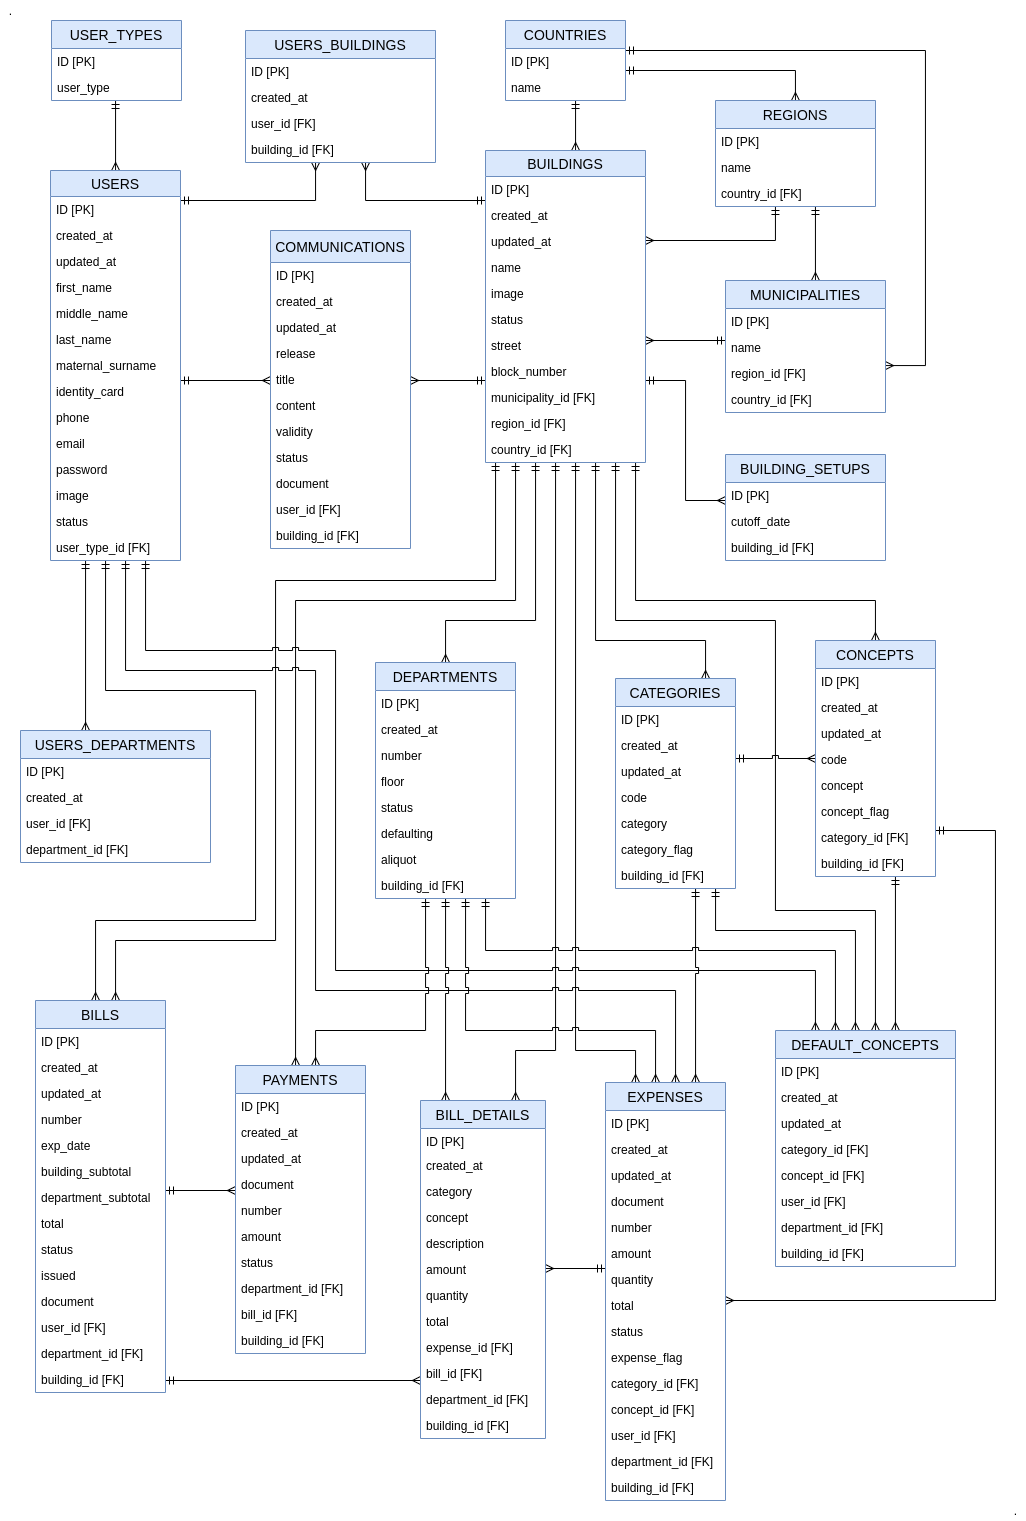
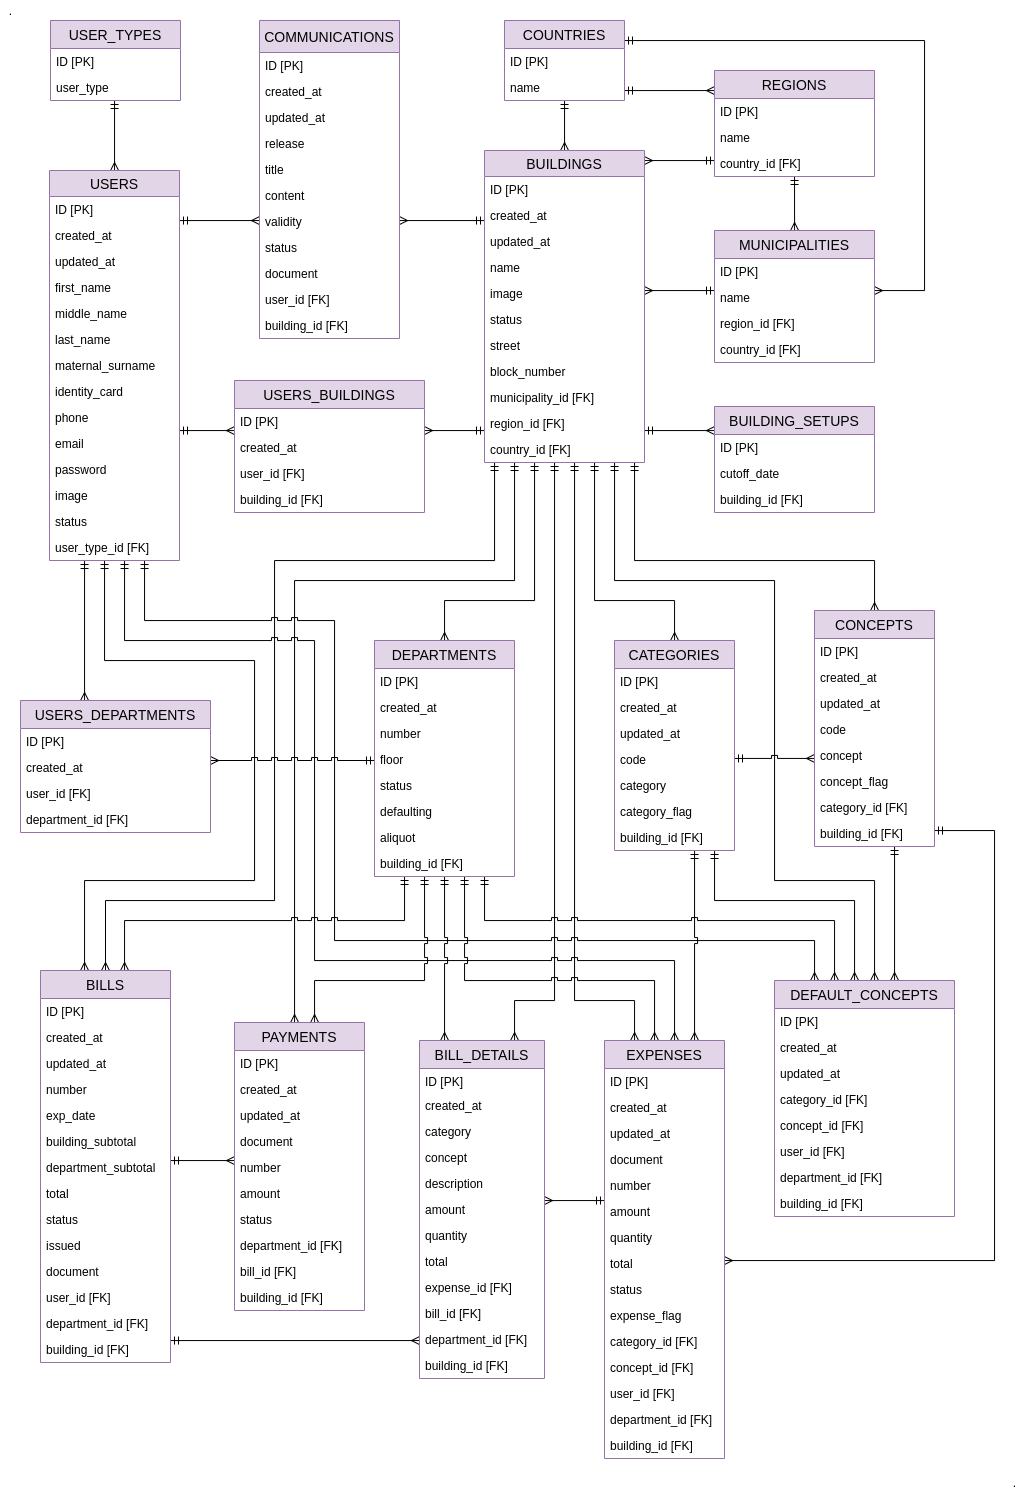
database, controllers and router schema modified

diff --git a/router.js b/router.js
@@ -1,11 +1,10 @@
 const users = require('./controllers/users');
 const buildings = require('./controllers/buildings');
-const admins = require('./controllers/admins');
 const departments = require('./controllers/departments');
 const communications = require('./controllers/communications');
 const categories = require('./controllers/categories');
 const concepts = require('./controllers/concepts');
-const generalExpenses = require('./controllers/general-expenses');
+const expenses = require('./controllers/expenses');
 const bills = require('./controllers/bills');
 const payments = require('./controllers/payments');
 
@@ -23,13 +22,6 @@ function createRouter(app) {
   app.post('/users/create', users.createUser);
   app.put('/users/update', users.updateUser);
   app.delete('/users/delete', users.deleteUsers);
-
-  /* ADMINS */
-  app.get('/admins', admins.getAdmins);
-  app.get('/admins/id', admins.getAdminsById);
-  app.post('/admins/create', admins.createAdmin);
-  app.put('/admins/update', admins.updateAdmin);
-  app.delete('/admins/delete', admins.deleteAdmins);
 
   /* DEPARTMENTS */
   app.get('/departments', departments.getDepartments);
@@ -59,12 +51,12 @@ function createRouter(app) {
   app.put('/concepts/update', concepts.updateConcept);
   app.delete('/concepts/delete', concepts.deleteConcepts);
 
-  /* GENERAL-EXPENSES */
-  app.get('/general-expenses', generalExpenses.getGeneralExpenses);
-  app.get('/general-expenses/id', generalExpenses.getGeneralExpensesById);
-  app.post('/general-expenses/create', generalExpenses.createGeneralExpense);
-  app.put('/general-expenses/update', generalExpenses.updateGeneralExpense);
-  app.delete('/general-expenses/delete', generalExpenses.deleteGeneralExpenses);
+  /* EXPENSES */
+  app.get('/expenses', expenses.getExpenses);
+  app.get('/expenses/id', expenses.getExpensesById);
+  app.post('/expenses/create', expenses.createExpense);
+  app.put('/expenses/update', expenses.updateExpense);
+  app.delete('/expenses/delete', expenses.deleteExpenses);
 
   /* BILLS */
   app.get('/bills', bills.getBills);
